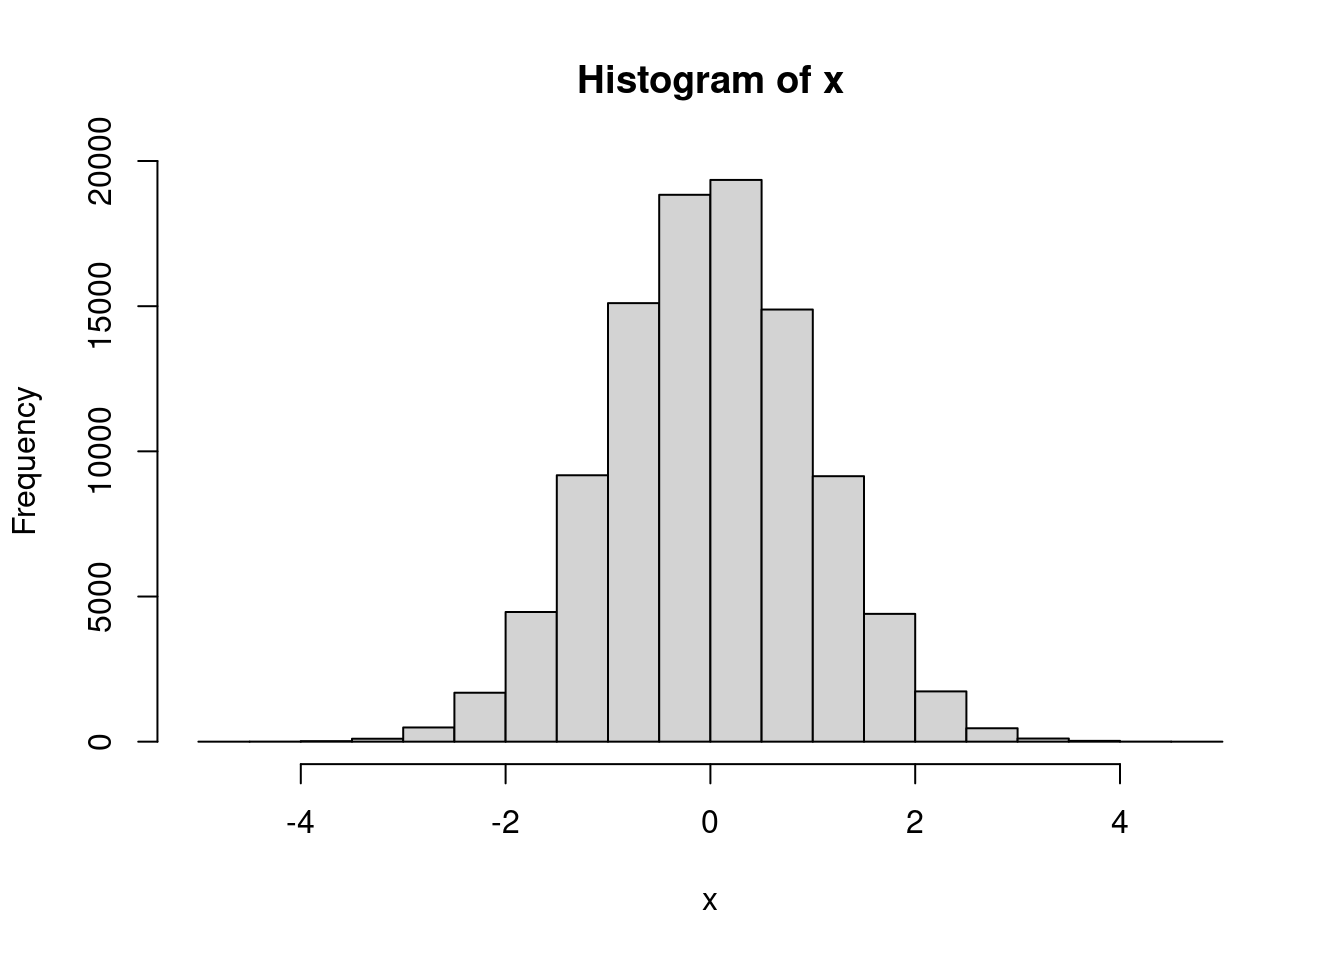
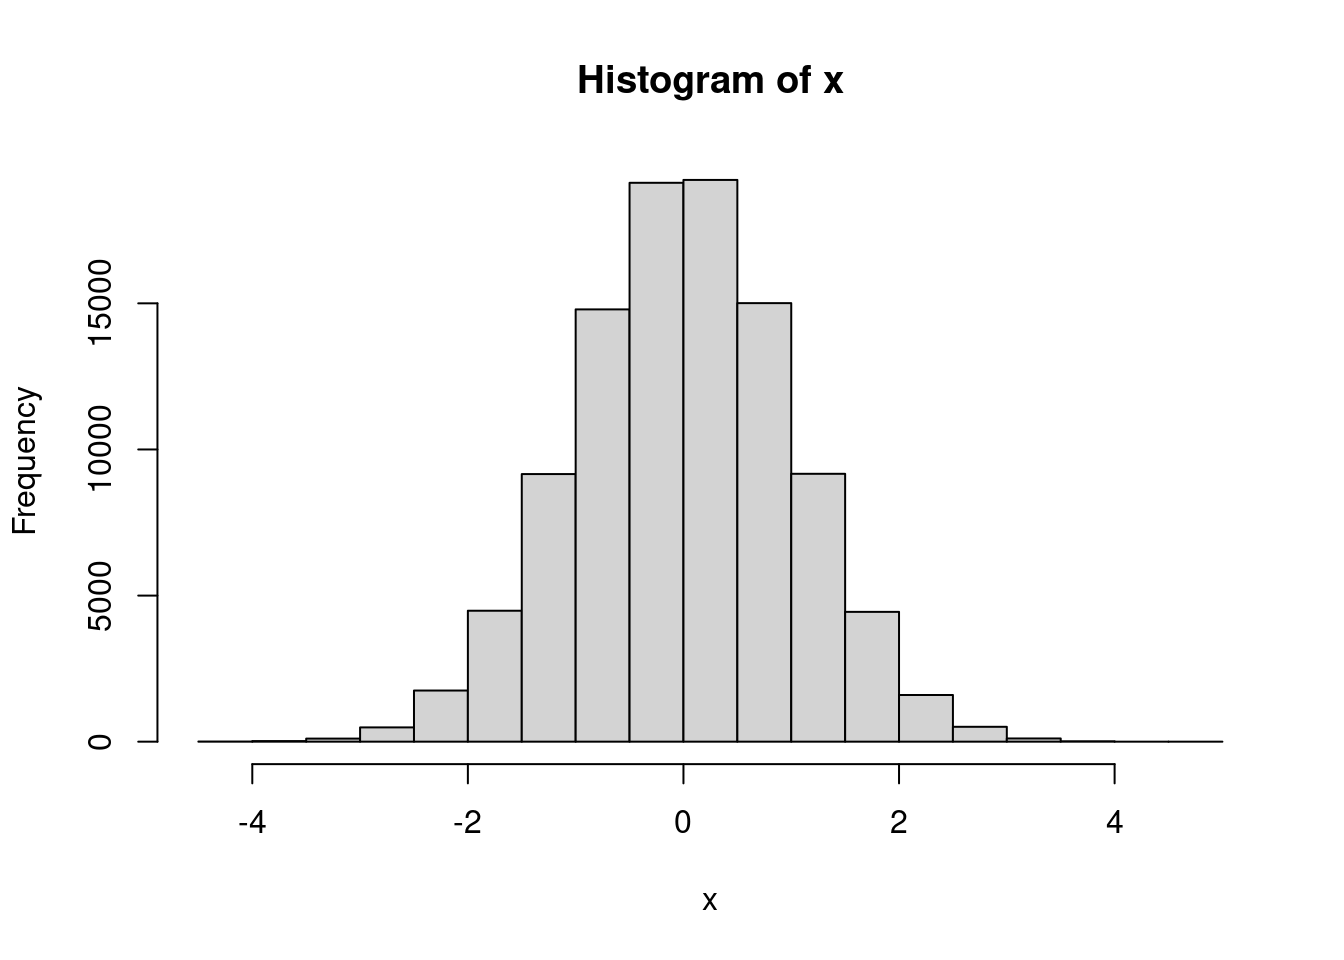
Deploying to gh-pages from @ tidyverse/design@c736d7dc86b593262c4f1ee54eea319e58b045ab 🚀

diff --git a/spooky-action.html b/spooky-action.html
@@ -544,7 +544,7 @@ pre > code.sourceCode > span > a:first-child::before { text-decoration: underlin
 <span>  <span class="fu">lubridate</span><span class="fu">::</span><span class="fu"><a href="https://lubridate.tidyverse.org/reference/now.html">now</a></span><span class="op">(</span><span class="op">)</span></span>
 <span><span class="op">}</span></span>
 <span><span class="fu">current_time</span><span class="op">(</span><span class="op">)</span></span>
-<span><span class="co">#&gt; [1] "2023-08-04 15:25:50 UTC"</span></span></code><button title="Copy to Clipboard" class="code-copy-button"><i class="bi"></i></button></pre></div>
+<span><span class="co">#&gt; [1] "2023-08-04 16:07:45 UTC"</span></span></code><button title="Copy to Clipboard" class="code-copy-button"><i class="bi"></i></button></pre></div>
 </div>
 </section><section id="ask-for-confirmation" class="level3" data-number="33.3.3"><h3 data-number="33.3.3" class="anchored" data-anchor-id="ask-for-confirmation">
 <span class="header-section-number">33.3.3</span> Ask for confirmation</h3>
@@ -695,8 +695,8 @@ pre > code.sourceCode > span > a:first-child::before { text-decoration: underlin
 <span></span>
 <span><span class="fu"><a href="https://rdrr.io/r/base/cbind.html">rbind</a></span><span class="op">(</span><span class="va">x</span>, <span class="va">out</span><span class="op">)</span></span>
 <span><span class="co">#&gt;     [,1] [,2] [,3] [,4] [,5] [,6] [,7] [,8] [,9] [,10]</span></span>
-<span><span class="co">#&gt; x      9    7   14   13   10    8   12   17   10     9</span></span>
-<span><span class="co">#&gt; out    9   16   30   43   53   61   73   90  100   109</span></span></code><button title="Copy to Clipboard" class="code-copy-button"><i class="bi"></i></button></pre></div>
+<span><span class="co">#&gt; x     12    9    9   11   12   11    8   14    4     6</span></span>
+<span><span class="co">#&gt; out   12   21   30   41   53   64   72   86   90    96</span></span></code><button title="Copy to Clipboard" class="code-copy-button"><i class="bi"></i></button></pre></div>
 </div>
 <p>A simple transformation from to use <code><a href="https://purrr.tidyverse.org/reference/map.html">map()</a></code> doesn’t work:</p>
 <div class="cell">
@@ -709,7 +709,7 @@ pre > code.sourceCode > span > a:first-child::before { text-decoration: underlin
 <span>    <span class="va">out</span><span class="op">[[</span><span class="va">i</span><span class="op">]</span><span class="op">]</span> <span class="op">&lt;-</span> <span class="va">x</span><span class="op">[[</span><span class="va">i</span><span class="op">]</span><span class="op">]</span> <span class="op">+</span> <span class="va">out</span><span class="op">[[</span><span class="va">i</span> <span class="op">-</span> <span class="fl">1</span><span class="op">]</span><span class="op">]</span></span>
 <span>  <span class="op">}</span></span>
 <span><span class="op">}</span><span class="op">)</span></span>
-<span><span class="co">#&gt;  [1]  9  7 14 13 10  8 12 17 10  9</span></span></code><button title="Copy to Clipboard" class="code-copy-button"><i class="bi"></i></button></pre></div>
+<span><span class="co">#&gt;  [1] 12  9  9 11 12 11  8 14  4  6</span></span></code><button title="Copy to Clipboard" class="code-copy-button"><i class="bi"></i></button></pre></div>
 </div>
 <p>Because the modification of <code>out</code> is happening inside of a function, R creates a copy of <code>out</code> (this is called <a href="https://adv-r.hadley.nz/names-values.html#copy-on-modify">copy-on-modify principle</a>). Instead we need to use <code>&lt;&lt;-</code> to reach outside of the function to modify the outer <code>out</code>:</p>
 <div class="cell">
@@ -720,7 +720,7 @@ pre > code.sourceCode > span > a:first-child::before { text-decoration: underlin
 <span>    <span class="va">out</span><span class="op">[[</span><span class="va">i</span><span class="op">]</span><span class="op">]</span> <span class="op">&lt;&lt;-</span> <span class="va">x</span><span class="op">[[</span><span class="va">i</span><span class="op">]</span><span class="op">]</span> <span class="op">+</span> <span class="va">out</span><span class="op">[[</span><span class="va">i</span> <span class="op">-</span> <span class="fl">1</span><span class="op">]</span><span class="op">]</span></span>
 <span>  <span class="op">}</span></span>
 <span><span class="op">}</span><span class="op">)</span></span>
-<span><span class="co">#&gt;  [1]   9  16  30  43  53  61  73  90 100 109</span></span></code><button title="Copy to Clipboard" class="code-copy-button"><i class="bi"></i></button></pre></div>
+<span><span class="co">#&gt;  [1] 12 21 30 41 53 64 72 86 90 96</span></span></code><button title="Copy to Clipboard" class="code-copy-button"><i class="bi"></i></button></pre></div>
 </div>
 <p>This use of <code>&lt;&lt;-</code> is a spooky action because we’re reaching up the tree of environments to modify an object created outside of the function. In this case, however, there’s no point in using <code><a href="https://purrr.tidyverse.org/reference/map.html">map()</a></code>: the point of those functions is to restrict what you can do compared to a for loop so that your code is easier to understand. <a href="https://r4ds.had.co.nz/iteration.html#for-loop-variations">R for data science</a> has other examples of for loops that <em>could</em> be rewritten with <code><a href="https://purrr.tidyverse.org/reference/map.html">map()</a></code>, but shouldn’t be.</p>
 <p>Note that we could still wrap this code into a function to eliminate the spooky action:</p>

diff --git a/out-invisible.html b/out-invisible.html
@@ -536,20 +536,20 @@ pre > code.sourceCode > span > a:first-child::before { text-decoration: underlin
 <span>  <span class="fu"><a href="https://fs.r-lib.org/reference/path.html">path</a></span><span class="op">(</span><span class="va">letters</span><span class="op">[</span><span class="fl">1</span><span class="op">:</span><span class="fl">5</span><span class="op">]</span><span class="op">)</span> <span class="op"><a href="https://magrittr.tidyverse.org/reference/pipe.html">%&gt;%</a></span></span>
 <span>  <span class="fu"><a href="https://fs.r-lib.org/reference/create.html">file_create</a></span><span class="op">(</span><span class="op">)</span></span>
 <span><span class="va">paths</span></span>
-<span><span class="co">#&gt; /tmp/Rtmp7tg6BX/file1cbf3846242/a /tmp/Rtmp7tg6BX/file1cbf3846242/b </span></span>
-<span><span class="co">#&gt; /tmp/Rtmp7tg6BX/file1cbf3846242/c /tmp/Rtmp7tg6BX/file1cbf3846242/d </span></span>
-<span><span class="co">#&gt; /tmp/Rtmp7tg6BX/file1cbf3846242/e</span></span></code><button title="Copy to Clipboard" class="code-copy-button"><i class="bi"></i></button></pre></div>
+<span><span class="co">#&gt; /tmp/RtmpR85OV0/file1c7b2fcc5f53/a /tmp/RtmpR85OV0/file1c7b2fcc5f53/b </span></span>
+<span><span class="co">#&gt; /tmp/RtmpR85OV0/file1c7b2fcc5f53/c /tmp/RtmpR85OV0/file1c7b2fcc5f53/d </span></span>
+<span><span class="co">#&gt; /tmp/RtmpR85OV0/file1c7b2fcc5f53/e</span></span></code><button title="Copy to Clipboard" class="code-copy-button"><i class="bi"></i></button></pre></div>
 </div>
 <p>Functions that modify some global state, like <code><a href="https://rdrr.io/r/base/options.html">options()</a></code> or <code><a href="https://rdrr.io/r/graphics/par.html">par()</a></code>, should return the <em>previous</em> value of the variables. This, in combination with <a href="compound-arguments.html"><span>Chapter&nbsp;15</span></a>, makes it possible to easily reset the effect of the change:</p>
 <div class="cell">
 <div class="sourceCode" id="cb4"><pre class="downlit sourceCode r code-with-copy"><code class="sourceCode R"><span><span class="va">x</span> <span class="op">&lt;-</span> <span class="fu"><a href="https://rdrr.io/r/stats/Uniform.html">runif</a></span><span class="op">(</span><span class="fl">1</span><span class="op">)</span></span>
 <span><span class="va">old</span> <span class="op">&lt;-</span> <span class="fu"><a href="https://rdrr.io/r/base/options.html">options</a></span><span class="op">(</span>digits <span class="op">=</span> <span class="fl">3</span><span class="op">)</span></span>
 <span><span class="va">x</span></span>
-<span><span class="co">#&gt; [1] 0.817</span></span>
+<span><span class="co">#&gt; [1] 0.116</span></span>
 <span></span>
 <span><span class="fu"><a href="https://rdrr.io/r/base/options.html">options</a></span><span class="op">(</span><span class="va">old</span><span class="op">)</span></span>
 <span><span class="va">x</span></span>
-<span><span class="co">#&gt; [1] 0.8166967</span></span></code><button title="Copy to Clipboard" class="code-copy-button"><i class="bi"></i></button></pre></div>
+<span><span class="co">#&gt; [1] 0.1162439</span></span></code><button title="Copy to Clipboard" class="code-copy-button"><i class="bi"></i></button></pre></div>
 </div>
 
 

diff --git a/side-effects.html b/side-effects.html
@@ -607,10 +607,10 @@ regression. This value is only computed when the summary is printed: you can see
 <div class="sourceCode" id="cb4"><pre class="downlit sourceCode r code-with-copy"><code class="sourceCode R"><span><span class="va">xhist</span> <span class="op">&lt;-</span> <span class="fu"><a href="https://rdrr.io/r/graphics/hist.html">hist</a></span><span class="op">(</span><span class="va">x</span>, plot <span class="op">=</span> <span class="cn">FALSE</span><span class="op">)</span></span>
 <span><span class="fu"><a href="https://rdrr.io/r/utils/str.html">str</a></span><span class="op">(</span><span class="va">xhist</span><span class="op">)</span></span>
 <span><span class="co">#&gt; List of 6</span></span>
-<span><span class="co">#&gt;  $ breaks  : num [1:21] -5 -4.5 -4 -3.5 -3 -2.5 -2 -1.5 -1 -0.5 ...</span></span>
-<span><span class="co">#&gt;  $ counts  : int [1:20] 1 2 20 102 489 1686 4466 9177 15105 18836 ...</span></span>
-<span><span class="co">#&gt;  $ density : num [1:20] 0.00002 0.00004 0.0004 0.00204 0.00978 ...</span></span>
-<span><span class="co">#&gt;  $ mids    : num [1:20] -4.75 -4.25 -3.75 -3.25 -2.75 -2.25 -1.75 -1.25 -0.75 -0.25 ...</span></span>
+<span><span class="co">#&gt;  $ breaks  : num [1:20] -4.5 -4 -3.5 -3 -2.5 -2 -1.5 -1 -0.5 0 ...</span></span>
+<span><span class="co">#&gt;  $ counts  : int [1:19] 6 21 105 488 1750 4482 9157 14794 19124 19224 ...</span></span>
+<span><span class="co">#&gt;  $ density : num [1:19] 0.00012 0.00042 0.0021 0.00976 0.035 ...</span></span>
+<span><span class="co">#&gt;  $ mids    : num [1:19] -4.25 -3.75 -3.25 -2.75 -2.25 -1.75 -1.25 -0.75 -0.25 0.25 ...</span></span>
 <span><span class="co">#&gt;  $ xname   : chr "x"</span></span>
 <span><span class="co">#&gt;  $ equidist: logi TRUE</span></span>
 <span><span class="co">#&gt;  - attr(*, "class")= chr "histogram"</span></span></code><button title="Copy to Clipboard" class="code-copy-button"><i class="bi"></i></button></pre></div>

diff --git a/required-no-defaults.html b/required-no-defaults.html
@@ -528,9 +528,9 @@ When should an argument be required?
 <p>This suggests that <code>size</code> is required, but it’s actually optional:</p>
 <div class="cell">
 <div class="sourceCode" id="cb3"><pre class="downlit sourceCode r code-with-copy"><code class="sourceCode R"><span><span class="fu"><a href="https://rdrr.io/r/base/sample.html">sample</a></span><span class="op">(</span><span class="fl">1</span><span class="op">:</span><span class="fl">4</span><span class="op">)</span></span>
-<span><span class="co">#&gt; [1] 4 2 3 1</span></span>
+<span><span class="co">#&gt; [1] 2 4 3 1</span></span>
 <span><span class="fu"><a href="https://rdrr.io/r/base/sample.html">sample</a></span><span class="op">(</span><span class="fl">4</span><span class="op">)</span></span>
-<span><span class="co">#&gt; [1] 1 2 4 3</span></span></code><button title="Copy to Clipboard" class="code-copy-button"><i class="bi"></i></button></pre></div>
+<span><span class="co">#&gt; [1] 3 4 1 2</span></span></code><button title="Copy to Clipboard" class="code-copy-button"><i class="bi"></i></button></pre></div>
 </div>
 </li>
 <li>
@@ -553,7 +553,7 @@ When should an argument be required?
 <span><span class="co">#&gt; </span></span>
 <span><span class="co">#&gt; Coefficients:</span></span>
 <span><span class="co">#&gt; (Intercept)            x  </span></span>
-<span><span class="co">#&gt;       0.479        2.127</span></span></code><button title="Copy to Clipboard" class="code-copy-button"><i class="bi"></i></button></pre></div>
+<span><span class="co">#&gt;       1.989        1.413</span></span></code><button title="Copy to Clipboard" class="code-copy-button"><i class="bi"></i></button></pre></div>
 </div>
 </li>
 </ul>

diff --git a/changes-multivers.html b/changes-multivers.html
@@ -565,9 +565,9 @@ pre > code.sourceCode > span > a:first-child::before { text-decoration: underlin
 <span><span class="co">#&gt; # A tibble: 3 × 5</span></span>
 <span><span class="co">#&gt;   expression      min   median `itr/sec` mem_alloc</span></span>
 <span><span class="co">#&gt;   &lt;bch:expr&gt; &lt;bch:tm&gt; &lt;bch:tm&gt;     &lt;dbl&gt; &lt;bch:byt&gt;</span></span>
-<span><span class="co">#&gt; 1 version     500.9µs  519.1µs     1900.    4.01KB</span></span>
-<span><span class="co">#&gt; 2 exists        3.2µs    3.6µs   252113.    3.29MB</span></span>
-<span><span class="co">#&gt; 3 formals       1.5µs    1.7µs   490863.        0B</span></span></code><button title="Copy to Clipboard" class="code-copy-button"><i class="bi"></i></button></pre></div>
+<span><span class="co">#&gt; 1 version       497µs  521.7µs     1890.    4.01KB</span></span>
+<span><span class="co">#&gt; 2 exists        3.3µs    3.7µs   242823.    3.29MB</span></span>
+<span><span class="co">#&gt; 3 formals       1.5µs    1.7µs   473665.        0B</span></span></code><button title="Copy to Clipboard" class="code-copy-button"><i class="bi"></i></button></pre></div>
 </div>
 <p>If you do need to use <code><a href="https://rdrr.io/r/utils/packageDescription.html">packageVersion()</a></code> inside a performance sensitive function, I recommend caching the result in <code>.onLoad()</code> (which, by convention, lives in <code>zzz.R</code>). There a few ways to do this; but the following block shows one approach that matches the function interface I used above:</p>
 <div class="cell">

diff --git a/explicit-strategies.html b/explicit-strategies.html
@@ -562,6 +562,7 @@ pre > code.sourceCode > span > a:first-child::before { text-decoration: underlin
 <span><span class="fu">vctrs</span><span class="fu">::</span><span class="fu"><a href="https://vctrs.r-lib.org/reference/vec_order.html">vec_sort</a></span><span class="op">(</span><span class="va">x</span>, direction <span class="op">=</span> <span class="st">"asc"</span><span class="op">)</span></span></code><button title="Copy to Clipboard" class="code-copy-button"><i class="bi"></i></button></pre></div>
 </div>
 <p>It’s unlikely that you’ll ever need to implement another sorting direction, but I think it’s easier to understand <code>direction = "asc"</code> than <code>decreasing = FALSE</code> at a glance.</p>
+<p>Another example is <code>cols_vary</code> in <code>pivot_wider()</code>.</p>
 </section><section id="varying-arguments" class="level3" data-number="12.3.3"><h3 data-number="12.3.3" class="anchored" data-anchor-id="varying-arguments">
 <span class="header-section-number">12.3.3</span> Varying arguments</h3>
 <p>In more complicated cases, different strategies will require different arguments, so you’ll need a bit more infrastructure. I think stringr provides the best model for this technique.</p>

diff --git a/defaults-short-and-sweet.html b/defaults-short-and-sweet.html
@@ -616,7 +616,7 @@ Sentinel value
 <div class="sourceCode" id="cb9"><pre class="downlit sourceCode r code-with-copy"><code class="sourceCode R"><span><span class="fu">ggplot2</span><span class="fu">::</span><span class="va"><a href="https://ggplot2.tidyverse.org/reference/waiver.html">waiver</a></span></span>
 <span><span class="co">#&gt; function () </span></span>
 <span><span class="co">#&gt; structure(list(), class = "waiver")</span></span>
-<span><span class="co">#&gt; &lt;bytecode: 0x56227570d320&gt;</span></span>
+<span><span class="co">#&gt; &lt;bytecode: 0x560b51ca5ef8&gt;</span></span>
 <span><span class="co">#&gt; &lt;environment: namespace:ggplot2&gt;</span></span></code><button title="Copy to Clipboard" class="code-copy-button"><i class="bi"></i></button></pre></div>
 </div>
 <p>And then ggplot2 also provides the internal <code>is.waive()</code><a href="#fn3" class="footnote-ref" id="fnref3" role="doc-noteref"><sup>3</sup></a> function which allows to work with it in the same way we might work with a <code>NULL</code>:</p>
